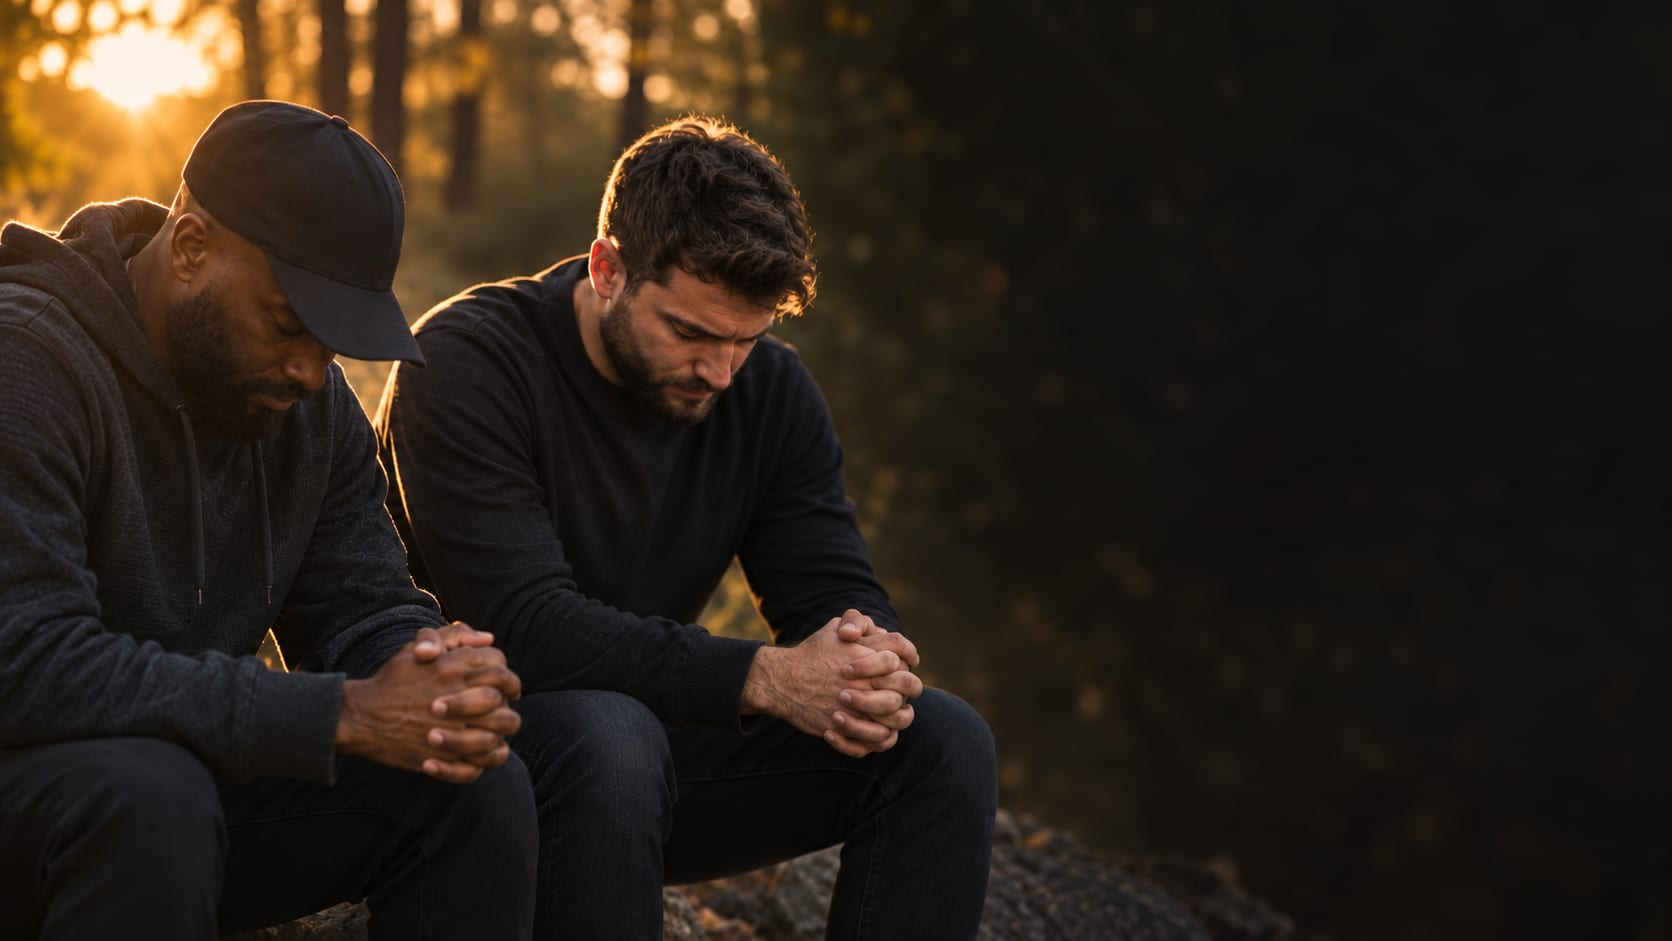
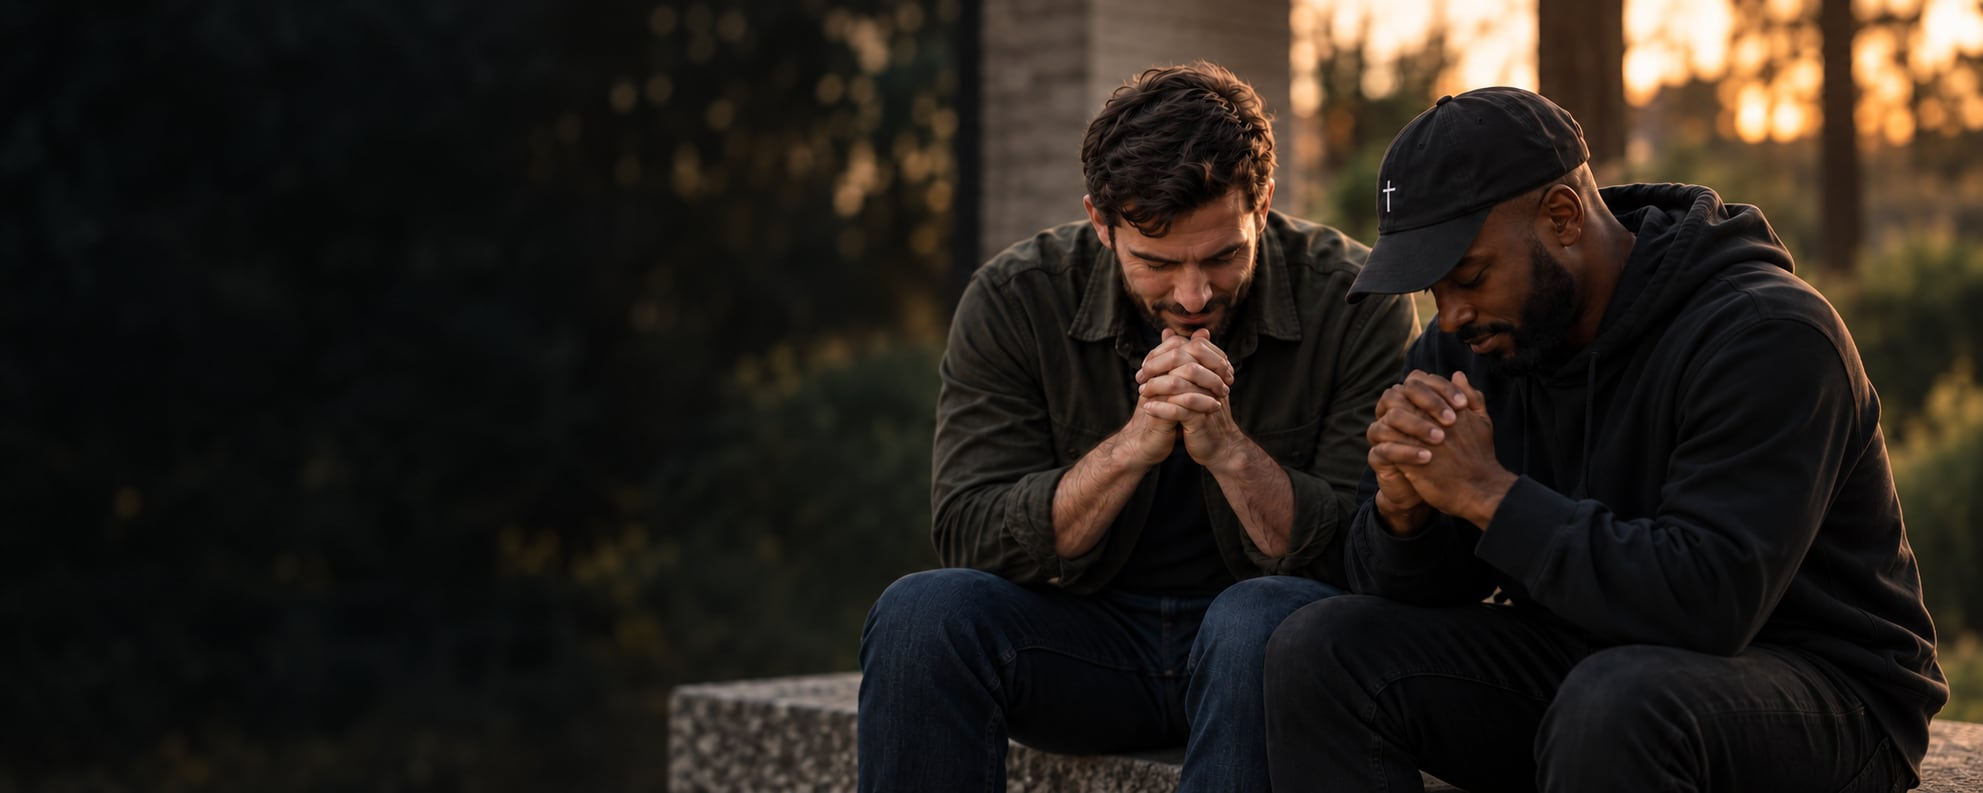
Home partners: the photos from the mock-up — smiling headshots in the rings, the bench shot on the right

diff --git a/components/PrayerPartnersSection.module.css b/components/PrayerPartnersSection.module.css
@@ -31,7 +31,7 @@
 
 /* Photograph, right, fading into the ink on its left and bottom edges. */
 .photo { position: relative; grid-column: 3; min-height: 100%; }
-.photoImage { object-fit: cover; object-position: 28% center; }
+.photoImage { object-fit: cover; object-position: 82% center; }
 .photoShade { position: absolute; inset: 0; background: linear-gradient(90deg, var(--ink) 0%, rgba(11,13,14,0.55) 22%, transparent 55%), linear-gradient(0deg, rgba(11,13,14,0.6), transparent 40%); }
 
 .copy { grid-column: 1; align-self: center; padding: clamp(56px, 6vw, 96px) 0 clamp(56px, 6vw, 96px) clamp(24px, 3.5vw, 56px); }
@@ -95,7 +95,7 @@
 @media (max-width: 860px) {
   .section { display: flex; flex-direction: column; min-height: 0; gap: 0; }
   .photo { position: relative; inset: auto; min-height: 400px; order: 0; }
-  .photoImage { object-position: 40% center; }
+  .photoImage { object-position: 70% center; }
   .photoShade { background: linear-gradient(0deg, var(--ink) 0%, transparent 50%); }
   .copy { order: 1; margin-top: -90px; padding: 0 22px 8px; }
   .copy h2 { font-size: clamp(2.6rem, 11vw, 4rem); }
